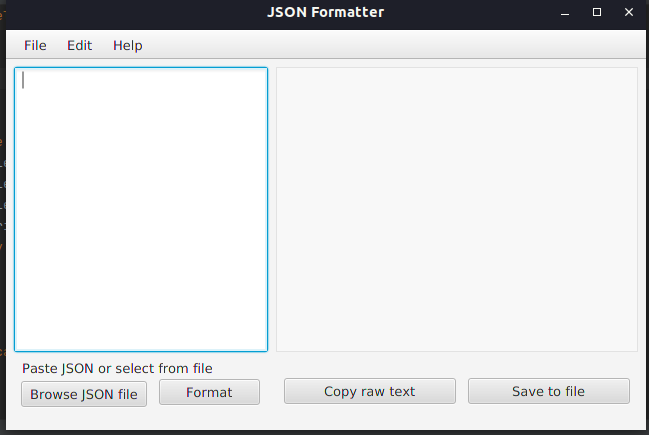
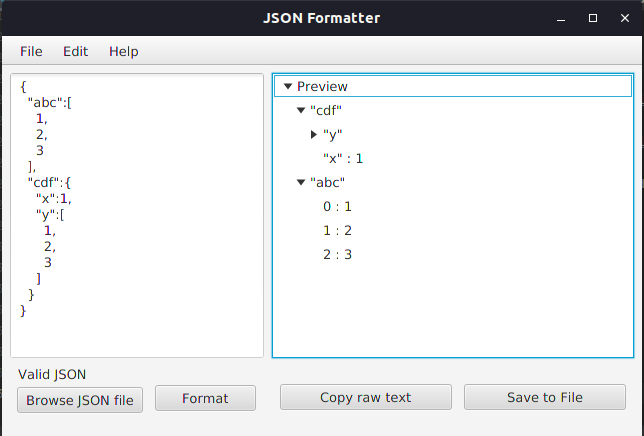
Updated README and screenshots.

diff --git a/src/treeview/JsonTreeView.java b/src/treeview/JsonTreeView.java
@@ -1,74 +1,10 @@
 package treeview;
 
 import ast.*;
-import javafx.geometry.Rectangle2D;
-import javafx.scene.Node;
 import javafx.scene.control.TreeItem;
-import javafx.scene.control.TreeView;
-import javafx.scene.shape.Rectangle;
-import org.json.JSONArray;
-import org.json.JSONException;
-import org.json.JSONObject;
-import validator.Lexeme;
-import validator.Lexer;
-import validator.QuoteMismatchException;
-import validator.RecursiveDescendantParser;
-
-import java.util.Iterator;
-import java.util.List;
 import java.util.Map;
-import java.util.Set;
 
 public class JsonTreeView {
-
-    enum SymbolType {
-        OBJECT_VIEW(new Rectangle(45, 52, 16, 18)),
-        ARRAY_VIEW(new Rectangle(61, 88, 16, 18)),
-        PROPERTY_VIEW(new Rectangle(31, 13, 16, 18));
-
-        private final Rectangle viewport;
-
-        private SymbolType(Rectangle viewport) {
-            this.viewport = viewport;
-        }
-    }
-
-
-    public static TreeItem<String> parseJSON(String name, Object json) throws JSONException {
-        /*
-            Recursively build a TreeItem tree from our AST
-            Referred: https://stackoverflow.com/questions/60953087/add-a-jsonobject-string-to-a-treeview-using-javafx
-        */
-        TreeItem<String> item = new TreeItem<>();
-        if (json instanceof JSONObject) {
-            item.setValue(name);
-            JSONObject object = (JSONObject) json;
-
-            for (Iterator<String> it = object.keys(); it.hasNext(); ) {
-                String childName = it.next();
-                Object childJson = object.get(childName);
-                TreeItem<String> child = parseJSON(childName, childJson);
-                item.getChildren().add(child);
-
-            }
-
-        } else if (json instanceof JSONArray) {
-            item.setValue(name);
-            JSONArray array = (JSONArray) json;
-            for (int i = 0; i < array.length(); i++) {
-                String childName = String.valueOf(i);
-                Object childJson = array.get(i);
-                TreeItem<String> child = parseJSON(childName, childJson);
-                item.getChildren().add(child);
-            }
-        } else {
-            item.setValue(name + " : " + json);
-
-        }
-
-        return item;
-    }
-
     public TreeItem<String> buildTree(String name, ASTNode node) {
 
         TreeItem<String> item = new TreeItem<>();

diff --git a/src/main/Controller.java b/src/main/Controller.java
@@ -126,10 +126,7 @@ public class Controller implements Initializable {
             RecursiveDescentParserAST parserAST = new RecursiveDescentParserAST();
             ASTNode rootNode = parserAST.buildAST(tokenizedInput);
             JsonTreeView jsonTreeView = new JsonTreeView();
-            if(rootNode==null)
-                System.out.println("Sad..");
             TreeItem<String> root = jsonTreeView.buildTree("Preview", rootNode);
-            System.out.println("Root is null is "+(root==null));
             treeView1.setRoot(root);
 
 
@@ -153,6 +150,7 @@ public class Controller implements Initializable {
             saveToFileButton.setText("Saved!");
         } catch (IOException e) {
             System.out.println("Something went wrong while writing");
+            e.printStackTrace();
         }
     }
 

diff --git a/src/validator/RecursiveDescendantParser.java b/src/validator/RecursiveDescendantParser.java
@@ -24,7 +24,6 @@ public class RecursiveDescendantParser {
                 return value(input);
             }
         }
-        System.out.println("False call in PAIR, i=" + index);
         return false;
     }
 

diff --git a/src/ast/RecursiveDescentParserAST.java b/src/ast/RecursiveDescentParserAST.java
@@ -1,9 +1,6 @@
-
 package ast;
 
 import validator.Lexeme;
-
-import javax.print.DocFlavor;
 import java.util.ArrayList;
 import java.util.HashMap;
 import java.util.List;

diff --git a/README.md b/README.md
@@ -1,13 +1,13 @@
 # JSON Formatter and Validator
 A simple JSON pretty-printer/formatter+validator made with JavaFX
-Project under development.
 
 ## Project highlights
 1. Both the formatter and validator are written from scratch, without using a built-in/third party JSON parsing utilities
-2. The parser implemented is a Recursive Descendent parser.
-3. The application includes, formatting & validating JSON either stored in a file or pasted in the input field. It also supports, copying raw text to clipboard and saving the result to another file. 
+2. The parser implemented is a Recursive Descent parser. It outputs true/false depending on whether a given JSON string is valid or not. It also builds an Abstract Syntax Tree through which we can generate a treelike preview of the JSON data.
+3. The application includes, formatting & validating JSON either stored in a file or pasted in the input field. It also supports previewing the data, copying raw text to clipboard and saving the result to another file. 
 
 ## Screenshots
-<img src="https://github.com/Aftaab99/JSONFormatter/blob/master/screenshots/ss1.png" alt="screenshot 1" width="250">
-<img src="https://github.com/Aftaab99/JSONFormatter/blob/master/screenshots/ss2.png" alt="screenshot 2" width="250">
+<img src="https://github.com/Aftaab99/JSONFormatter/blob/master/screenshots/ss1.png" alt="screenshot 1" width="350">
+<img src="https://github.com/Aftaab99/JSONFormatter/blob/master/screenshots/ss2.png" alt="screenshot 2" width="350">
+<img src="https://github.com/Aftaab99/JSONFormatter/blob/master/screenshots/ss3.png" alt="screenshot 2" width="350">
 
